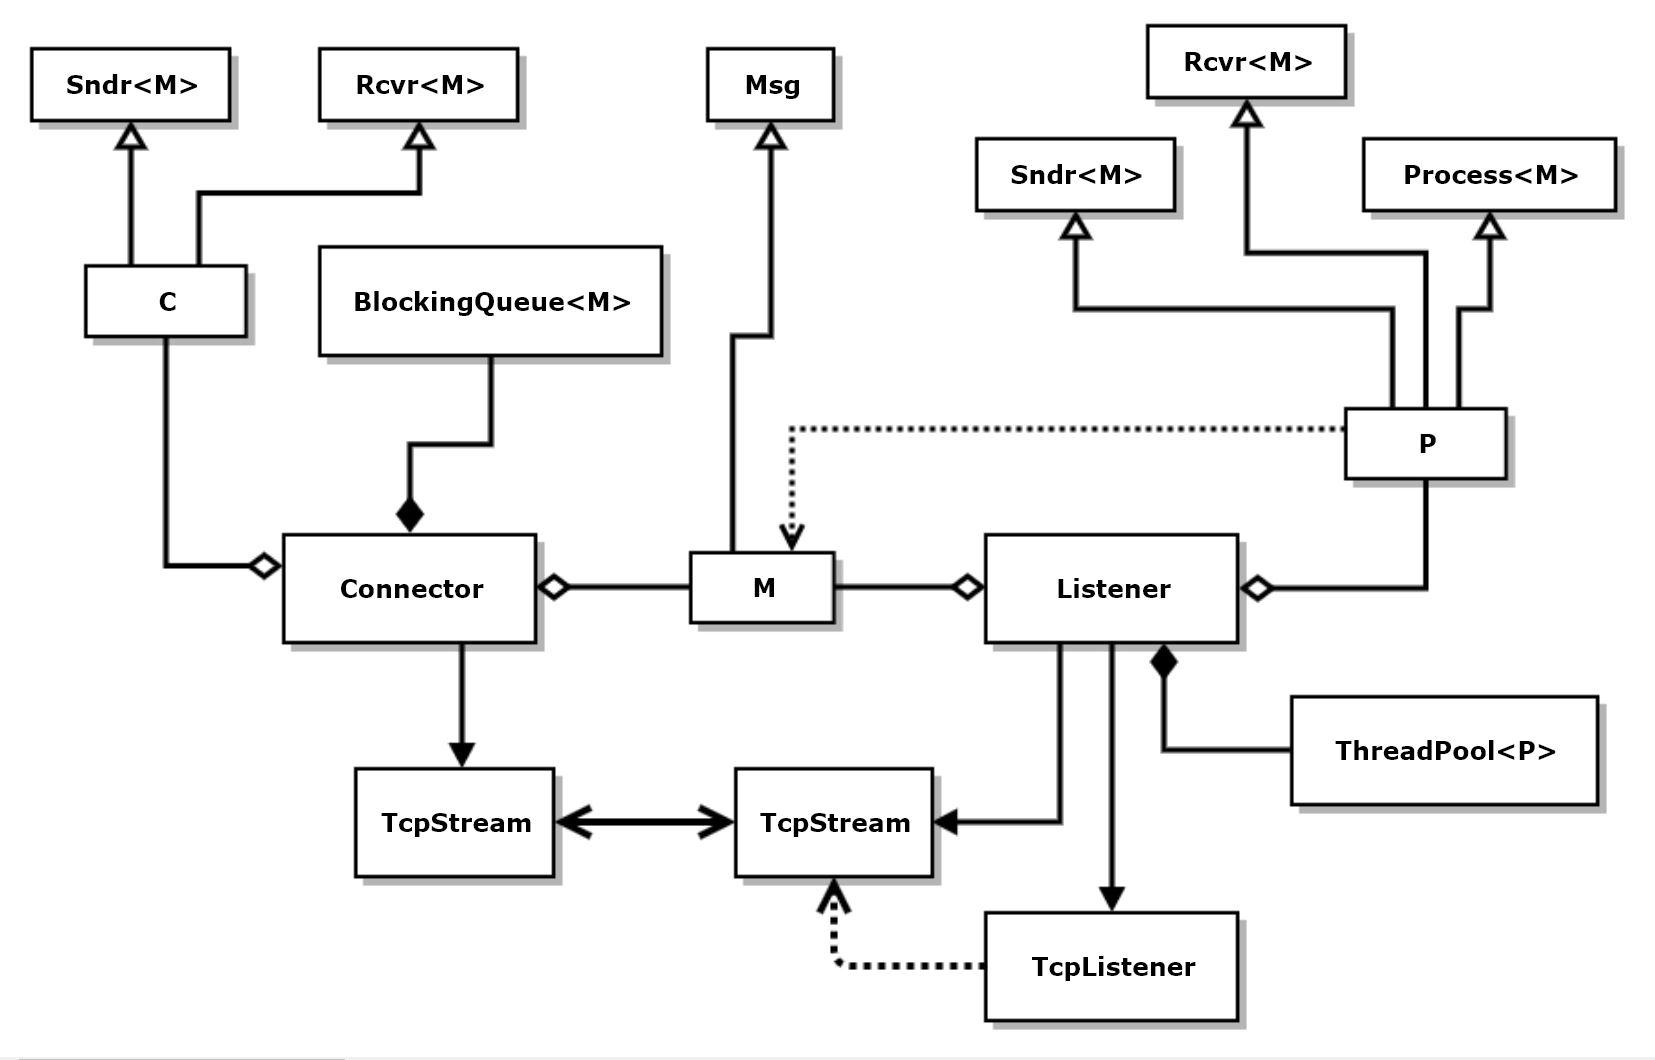
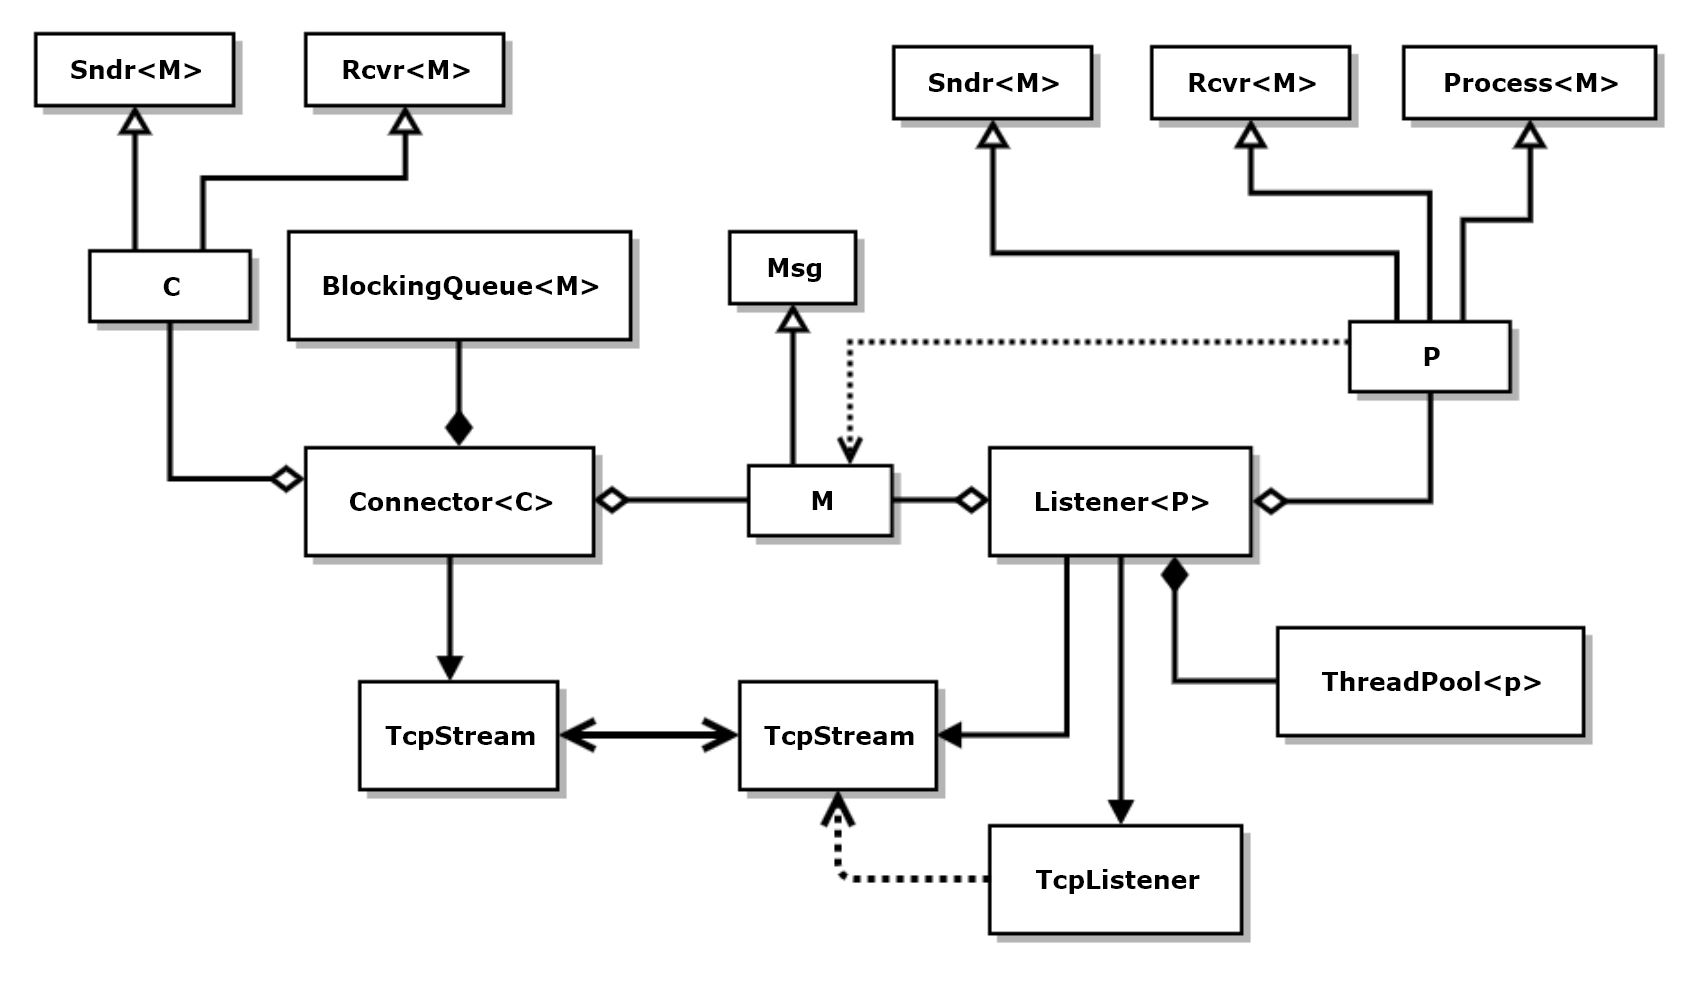
updated documentation for RustComm

Changed region(s): [[0.0, 0.0, 0.9861, 0.9736]]

diff --git a/RustComm.html b/RustComm.html
@@ -108,8 +108,24 @@
   <hr class="spread" />
 
   <div class="bb-55">
+    <div style="width:calc(100vw - 6rem);">
+      <photosizer-block src="Pictures/RustCommConcept.jpg" width="600" class="photoSizerBlock right" style="margin-top:0;">
+        <span style="
+        display: inline-block;
+        font-weight: bold;
+        font-family: 'Comic Sans MS, Tahoma';
+        background-color: #ddd;
+        width: 100%;
+        padding: 5px 0px;
+      ">
+          Fig 1. RustComm Concept
+        </span>
+      </photosizer-block>
+    </div>
+  </div>
+  <div class="bb-55">
       <div style="width:calc(100vw - 6rem);">
-        <photosizer-block src="Pictures/RustCommStructure.jpg" width="400" class="photoSizerBlock right" style="margin-top:0;">
+        <photosizer-block src="Pictures/RustCommStructure.jpg" width="400" class="photoSizerBlock right clear" style="margin-top:0;">
           <span style="
           display: inline-block;
           font-weight: bold;
@@ -118,7 +134,7 @@
           width: 100%;
           padding: 5px 0px;
         ">
-            Fig 1. RustComm Structure
+            Fig 2. Current RustComm Structure
           </span>
         </photosizer-block>
       </div>
@@ -132,7 +148,7 @@
           width: 100%;
           padding: 5px 0px;
         ">
-            Fig 2. RustComm Output
+            Fig 3. RustComm Output
           </span>
         </photosizer-block>
       </div>
@@ -160,36 +176,22 @@
           </li>
         </ul>
       </t-b>
+      <t-b>
+        The long-term goal for RustComm is to serve as a prototyping platform for various messaging and processing
+        strategies.  The next version, just begun, defines traits: Sndr&lt;M&gt;, Rcvr&lt;M&gt;, Process&lt;M&gt;, and
+        Msg.  
+      </t-b>
+      <t-b>
+        The user-defined types M, C, and P, are things that change as we change the message structure, defined
+        by M and connector and listener processing defined by C and P.  The somewhat complex handling of TcpStreams
+        and TcpListener are expected to remain fixed.
+      </t-b>
+      <t-b>
+        As the concept evolves, some of these ideas may prove effective, and some may not.  Progress and changes to
+        the concept will be reported here.
+      </t-b>
     </t-b>
-    <h3>Design:</h3>
-      <!--<div style="width:calc(100vw - 6rem);">
-        <photosizer-block src="Pictures/RustCommStructure.jpg" width="400" class="photoSizerBlock right" style="margin-top:0;">
-          <span style="
-          display: inline-block;
-          font-weight: bold;
-          font-family: 'Comic Sans MS, Tahoma';
-          background-color: #ddd;
-          width: 100%;
-          padding: 5px 0px;
-        ">
-            Fig 1. RustComm Structure
-          </span>
-        </photosizer-block>
-      </div>
-      <div style="width:calc(100vw - 6rem);">
-        <photosizer-block src="Pictures/RustCommOutput.jpg" width="400" class="photoSizerBlock right clear" style="margin-top:0;">
-          <span style="
-          display: inline-block;
-          font-weight: bold;
-          font-family: 'Comic Sans MS, Tahoma';
-          background-color: #ddd;
-          width: 100%;
-          padding: 5px 0px;
-        ">
-            Fig 2. RustComm Output
-          </span>
-        </photosizer-block>
-      </div>-->
+    <h3>Current Design:</h3>
     <t-b>
       <t-b>
         There are three user-defined types: Message, Sender, and Receiver, with methods and several functions in this design:
@@ -380,11 +382,13 @@
       <t-b class="mtz">
         <ul class="tight">
           <li>
-            Define traits <c-s>Message</c-s>, <c-s>Sender</c-s>, and <c-s>Receiver</c-s>.  Refactor package
-            code into <c-s>Connector&lt;P&gt;</c-s> and <c-s>Listener&lt;P&gt;</c-s>, where P implements
-            all three traits.  The intent is to allow designers to create application specific 
-            processing types, <c-s>P</c-s>, that provide <c-s>Connector</c-s>s and <c-s>Listener</c-s>s send
-            and receive methods that are tailored to an application&apos;s messages and processing.
+            Define traits <c-s>Msg</c-s>, <c-s>Sndr</c-s>, <c-s>Rcvr</c-s>, and <c-s>Process</c-s>.  
+            Refactor package
+            code into <c-s>Connector&lt;C&gt;</c-s> and <c-s>Listener&lt;P&gt;</c-s>, where C and P implement
+            the traits.  The intent is to allow designers to create application specific 
+            processing, providing <c-s>Listener</c-s>s send
+            and receive methods that are tailored to an application&apos;s messages and processing, that simply
+            plug into the RustComm framework.
           </li>
           <li>
             <del>&nbsp;Add reply messages to this demo.&nbsp;</del>
